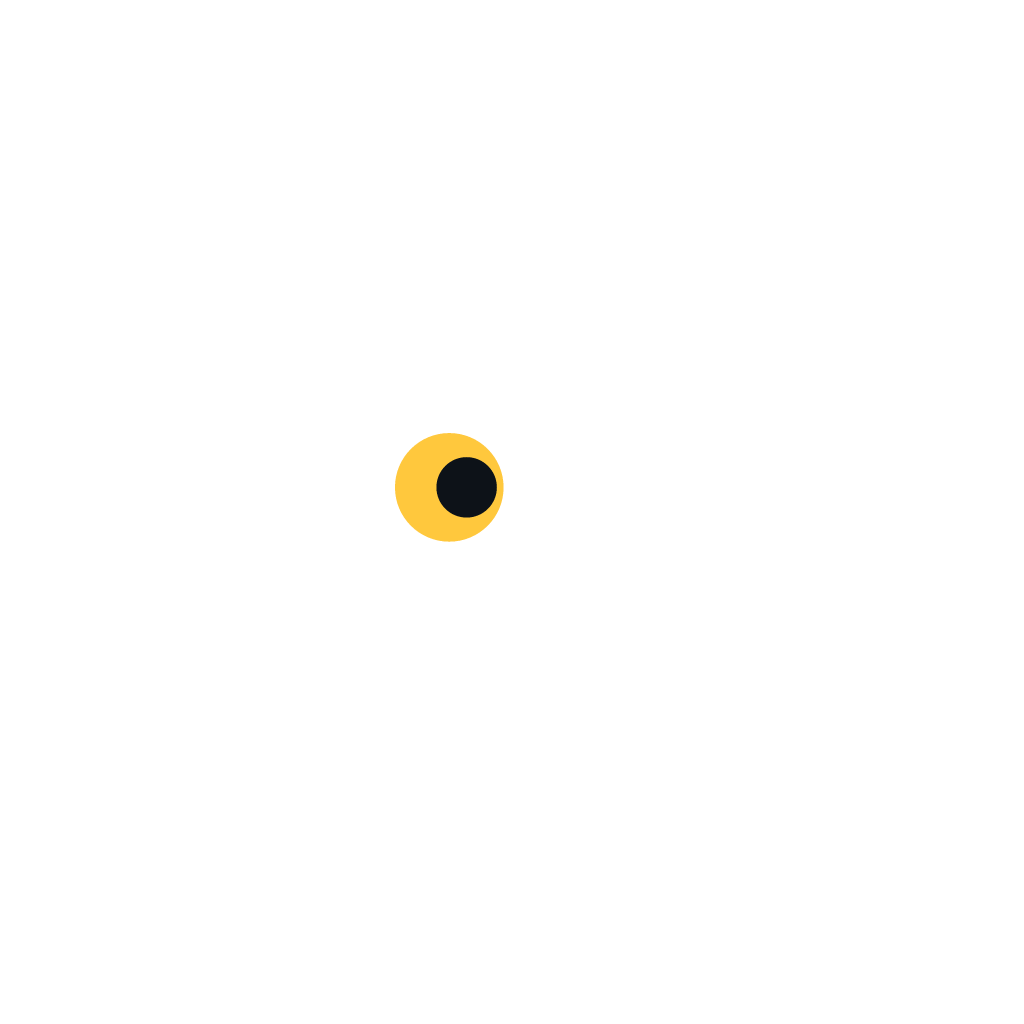
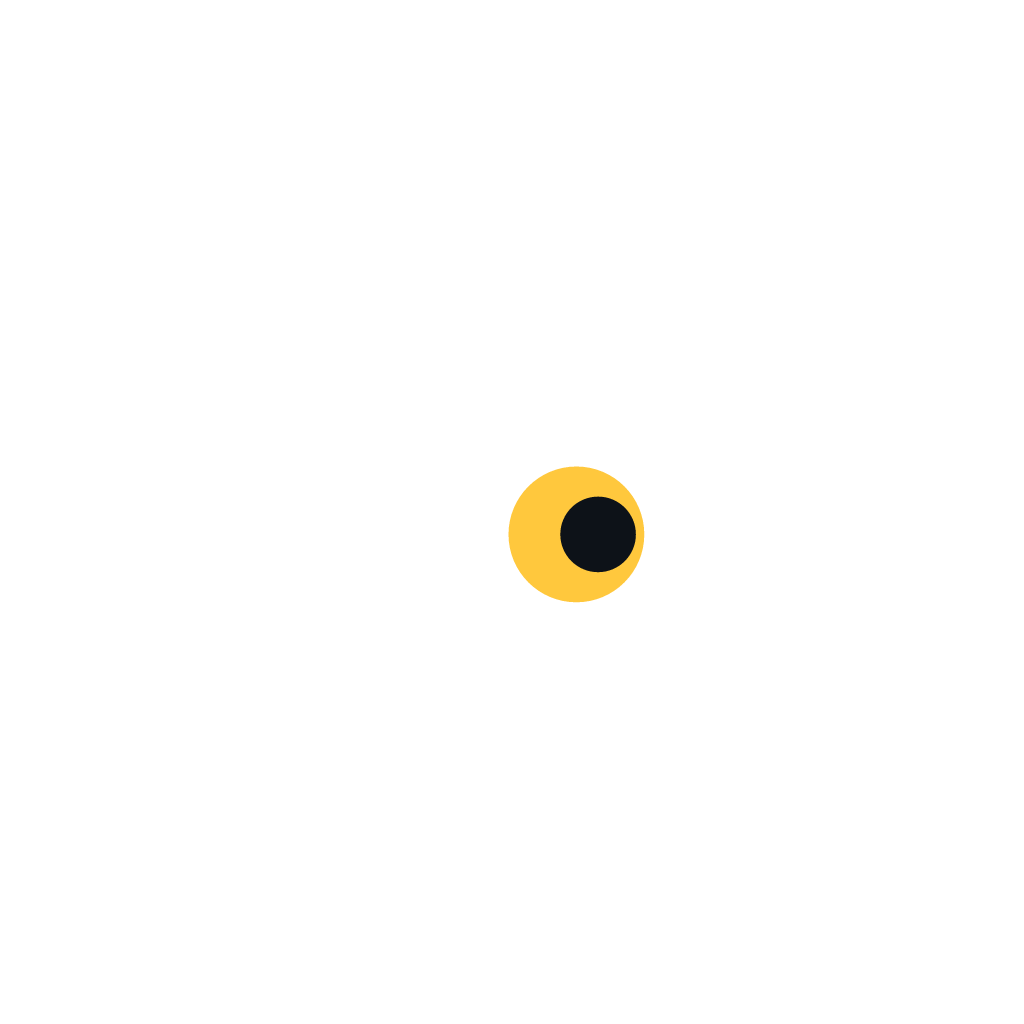
Redraw the parrot with a round, centred, larger head and no sound waves
The menu bar glyph shares the round head, with a smaller eye, at 17pt.

Changed region(s): [[0.375, 0.4062, 0.6562, 0.5938]]

diff --git a/design/logo/perroquet.py b/design/logo/perroquet.py
@@ -6,7 +6,7 @@ with the same settings as Tomate.icon so the apps share one look.
 
 Writes Perroquet/Perroquet.icon (the app icon), the one-colour menu bar template
 (Perroquet/Assets.xcassets/MenuBarIcon.imageset/MenuBarIcon.svg: head, beaks and
-crest merged, the eye punched out, no waves) and Liquid Glass previews in
+crest merged, the eye punched out) and Liquid Glass previews in
 design/logo/preview/.
 
 Usage: python3 -I design/logo/perroquet.py
@@ -37,9 +37,10 @@ ICTOOL = "/Applications/Xcode.app/Contents/Applications/Icon Composer.app/Conten
 
 BLUE, GREEN, YELLOW, WHITE = "#2F80ED", "#3DD17A", "#FFC83D", "#FFFFFF"
 
-# The motif is drawn in its own coordinates, then centred and scaled on the 1024 canvas.
-MOTIF_CENTRE = (521, 470)
-MOTIF_SCALE = 1.12
+# The parrot is drawn in its own coordinates, then scaled and centred on the 1024 canvas.
+# MOTIF_CENTRE is the centre of the bounding box of every layer (crest, head, beaks).
+MOTIF_CENTRE = (419, 432)
+MOTIF_SCALE = 1.4
 
 # Crest: one feather repeated three times. The tips sit on one arc (centred on
 # CREST_PIVOT, through the yellow tip), CREST_STEP degrees apart; each feather leans back
@@ -66,12 +67,6 @@ def crest() -> str:
     return "".join(paths)
 
 
-def arc(cx: float, cy: float, r: float, half_angle_deg: float) -> str:
-    a = math.radians(half_angle_deg)
-    x, dy = cx + r * math.cos(a), r * math.sin(a)
-    return f"M{x:.1f} {cy - dy:.1f} A{r} {r} 0 0 1 {x:.1f} {cy + dy:.1f}"
-
-
 def eye() -> str:
     white, pupil = 64, 27
     iris = (white + pupil) / 2 + 3
@@ -85,18 +80,13 @@ def eye() -> str:
 # Layer name -> SVG fragment in motif coordinates.
 LAYERS = {
     "eye": eye(),
-    "head": '<ellipse cx="360" cy="535" rx="215" ry="240" fill="#E83A45"/>',
+    "head": '<circle cx="360" cy="500" r="210" fill="#E83A45"/>',
     "upper-beak": (
         '<path d="M465 375 C630 335, 730 420, 720 545 C716 590, 684 600, 676 565 '
         'C664 515, 630 495, 480 500 Z" fill="#FBC24A"/>'
     ),
     "lower-beak": '<path d="M480 560 C610 560, 660 590, 660 640 C620 672, 560 668, 480 645 Z" fill="#E08A12"/>',
     "crest": crest(),
-    "waves": (
-        '<g fill="none" stroke-width="52" stroke-linecap="round">'
-        f'<path d="{arc(700, 590, 100, 50)}" stroke="{WHITE}"/>'
-        f'<path d="{arc(700, 590, 180, 50)}" stroke="{BLUE}"/></g>'
-    ),
 }
 
 
@@ -128,7 +118,6 @@ LAYER_SPECS: list[dict[str, Any]] = [
     },
     {"id": "lower-beak", "name": "Lower beak"},
     {"id": "crest", "name": "Crest"},
-    {"id": "waves", "name": "Waves", "glass": True},
 ]
 
 
@@ -170,16 +159,22 @@ def build_icon() -> None:
     (ICON / "icon.json").write_text(json.dumps(document, indent=2) + "\n")
 
 
-# Bounding box of head, beaks and crest in motif coordinates: x, y, width, height.
-MENU_BAR_BOX = (117, 154, 604, 510)
-MENU_BAR_HEIGHT_PT = 18
+# Eye hole of the menu bar glyph, smaller than the app icon's eye so it stays light at 17pt.
+MENU_BAR_EYE_RADIUS = 46
+# Bounding box of the head, beaks and crest in motif coordinates: x, y, width, height.
+MENU_BAR_BOX = (117, 150, 604, 560)
+MENU_BAR_HEIGHT_PT = 17
+
+
+def black(fragment: str) -> str:
+    """Return `fragment` with every fill forced to black, for a template image."""
+    return re.sub(r'fill="#[0-9A-Fa-f]{6}"', 'fill="#000"', fragment)
 
 
 def build_menu_bar_icon() -> None:
     """Write the menu bar template: one black silhouette with the eye as a hole, cropped to the motif."""
-    black = lambda fragment: re.sub(r'fill="#[0-9A-Fa-f]{6}"', 'fill="#000"', fragment)
     x, y, w, h = MENU_BAR_BOX
-    eye_hole = '<circle cx="465" cy="448" r="64" fill="#000"/>'
+    eye_hole = f'<circle cx="465" cy="448" r="{MENU_BAR_EYE_RADIUS}" fill="#000"/>'
     shapes = "".join(
         black(LAYERS[name]) for name in ("head", "upper-beak", "lower-beak", "crest")
     )
